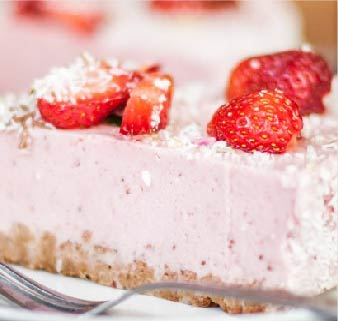
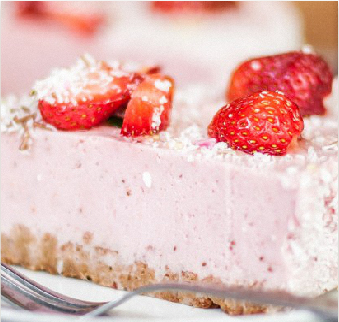
圖片優化完畢

diff --git a/singleseason/index.html b/singleseason/index.html
@@ -557,22 +557,22 @@
         <div class="tapru">        
             <div class="title"><img src="img/TITLE_01_TA.png"alt=""></div>                   
             <div class="contain">
-                <div class="pic"><img src="img/prota-11.jpg" alt="">
+                <div class="pic"><img src="img/prota-11-s.jpg" alt="">
                     <div class="picword">
                         <p>蓬鬆海綿蛋糕胚，口感綿密層次多，純手工的紮實，每一口都能帶給您最溫柔的感動。</p>
                     </div>
                 </div>
-                <div class="pic"><img src="img/prota-12.jpg" alt="">
+                <div class="pic"><img src="img/prota-12-s.jpg" alt="">
                     <div class="picword">
                         <p>精選顆顆飽滿的大湖草莓，酸中帶甜的內餡不斷挑動味蕾，讓幸福在舌尖上跳躍。</p>
                     </div>
                 </div>
-                <div class="pic"><img src="img/prota-13.jpg" alt="">
+                <div class="pic"><img src="img/prota-13-s.jpg" alt="">
                     <div class="picword">
                         <p>特製鮮奶油，加入進口瑞士巧克力，香醇略帶苦澀的口感讓蛋糕甜而不膩，嘗起來更加美味。</p>
                     </div>
                 </div>
-                <div class="pic"><img src="img/prota-14.jpg" alt="">
+                <div class="pic"><img src="img/prota-14-s.jpg" alt="">
                     <div class="picword">
                         <p>特選莓果，香甜帶著微微酸澀，幸福滋味讓人重返初戀時光，在寒冬中回想起掌心的溫暖。</p>
                     </div>
